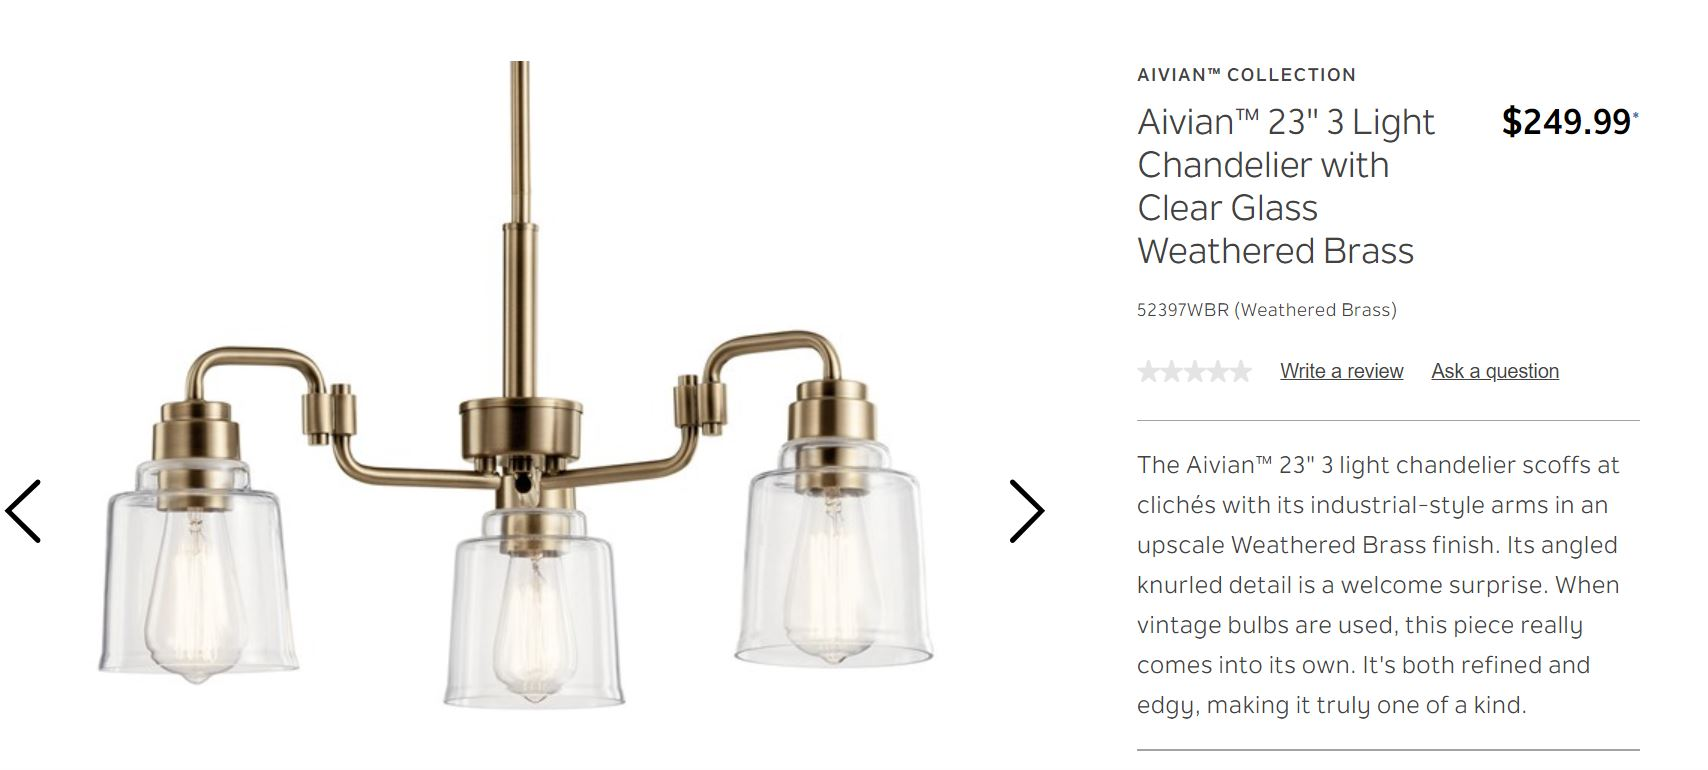
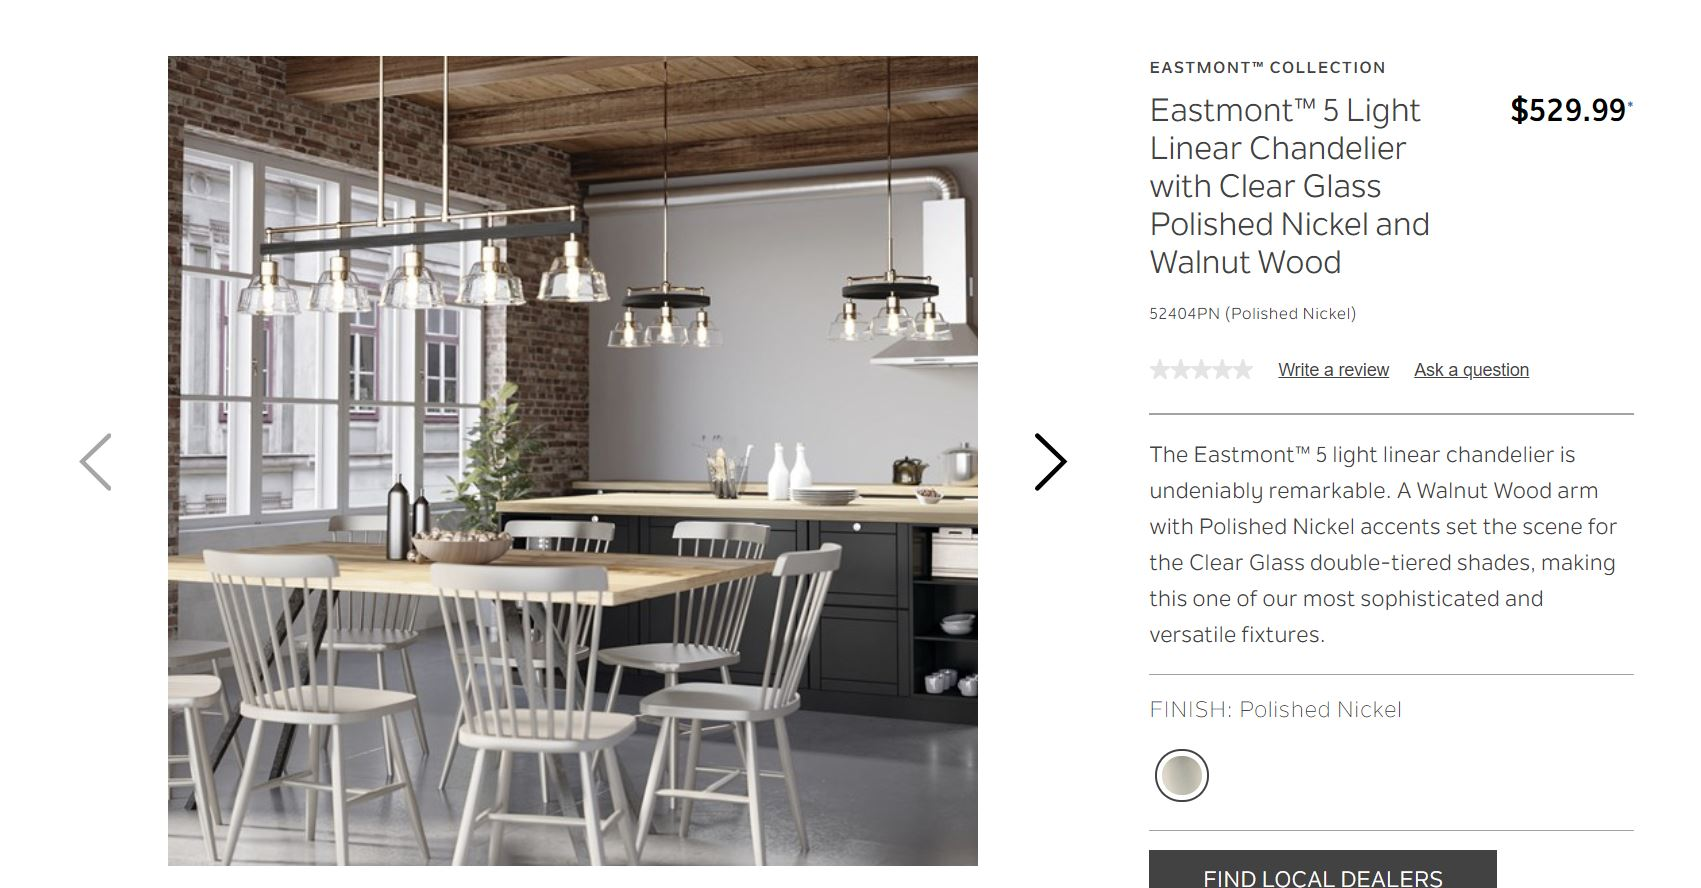
Changed images to fit better.

diff --git a/assets/css/styles.css b/assets/css/styles.css
@@ -192,7 +192,8 @@ h1
     aspect-ratio: 1;
     background-position: center;
     background-repeat: no-repeat;
-    background-size: cover;
+    background-size: contain;
+    background-color: white;
 }
 
 .text 
